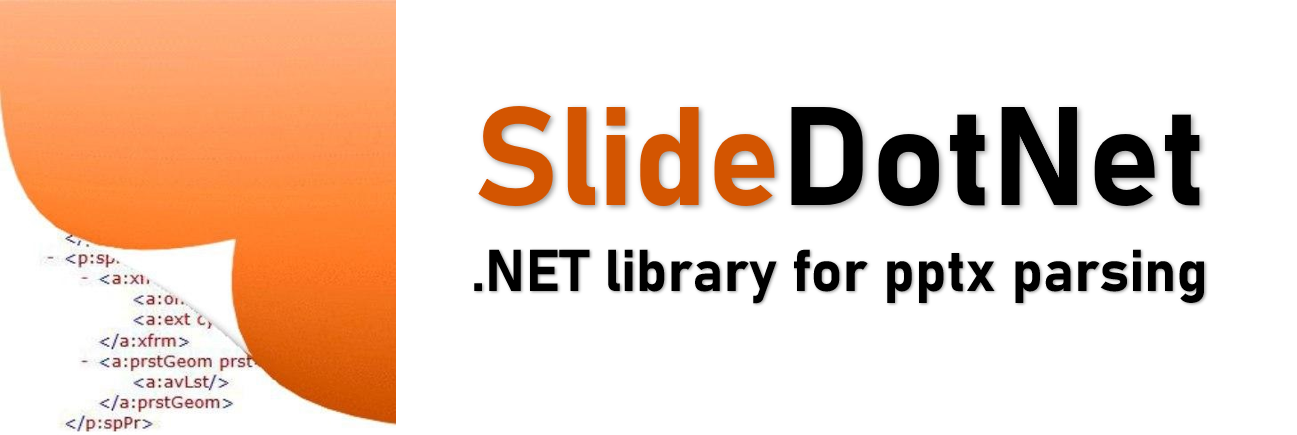
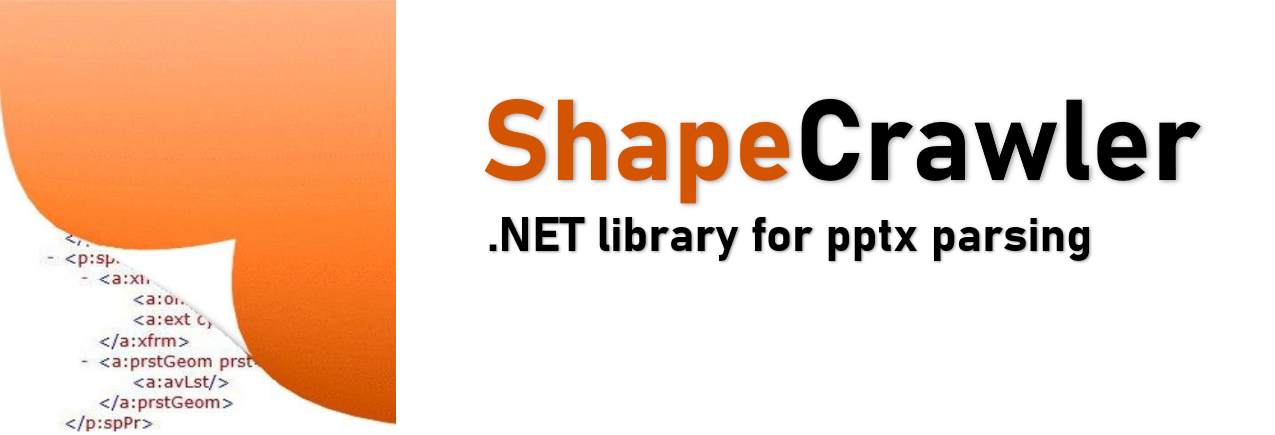
Update README

diff --git a/README.md b/README.md
@@ -1,6 +1,6 @@
 <h3 align="center">
 
-![SlideDotNet](/resources/readme.png)
+![ShapeCrawler](/resources/readme.png)
 
 </h3>
 
@@ -11,41 +11,42 @@
 
 </h3>
 
-SlideDotNet is a fluent wrapper around [Open XML SDK](https://github.com/OfficeDev/Open-XML-SDK) for the processing of PowerPoint files without Microsoft Office installed. It aims to provide an intuitive and user-friendly interface to dealing with the underlying Open XML SDK API.
+ShapeCrawler (formerly SlideDotNet) is a fluent wrapper around [Open XML SDK](https://github.com/OfficeDev/Open-XML-SDK) for the processing of PowerPoint files without Microsoft Office installed. It aims to provide an intuitive and user-friendly interface to dealing with the underlying Open XML SDK API.
 
 ## Getting Started
 You can quickly start work with the library by following steps listed below.
 
-### Prerequisites
-* .NET Core 2.2 or above
-
 ### Installing
-To install SlideDotNet, run the following command in the Package Manager Console:
+To install ShapeCrawler, run the following command in the Package Manager Console:
 ```
-PM> Install-Package SlideDotNet
+PM> Install-Package ShapeCrawler
 ```
 
 ### Usage
 ```C#
-// opens presentation from the file path
-var presentation = new PresentationEx(@"c:\test.pptx");
-
-// gets the slides collection
-var slides = presentation.Slides; 
-
-// gets number of slides
-var numSlides = slides.Count(); 
-
-// gets the shapes collection of the first slide
-var shapes = slides[0].Shapes;
-
-// prints texts of shapes on the Debug console
-foreach (var sp in shapes)
+public static async void Usage()
 {
-    if (sp.HasTextFrame)
+    // #1 Gets number of slides
+    var presentation = new PresentationEx(@"c:\test.pptx");
+    var slides = presentation.Slides;
+    var numSlides = slides.Count();
+    
+    // #2 Gets number of shapes
+    var firstSlide = slides[0];
+    var shapes = firstSlide.Shapes;
+    var numShapes = shapes.Count;
+    
+    // #3 Prints texts of shapes on the Debug console
+    foreach (var sp in shapes)
     {
-        Debug.WriteLine(sp.TextFrame.Text);
+        if (sp.HasTextFrame)
+        {
+            Debug.WriteLine(sp.TextFrame.Text);
+        }
     }
+
+    // #4 Gets slide background content
+    byte[] backgroundBytes = await firstSlide.BackgroundImage.GetImageBytes();
 }
 ```
 
@@ -59,11 +60,8 @@ foreach (var sp in shapes)
     - Bullet.Size
     - Bullet.ColorHex
 
-To find out more, please check out the [CHANGELOG](https://github.com/adamshakhabov/SlideDotNet/blob/master/CHANGELOG.md).
+To find out more, please check out the [CHANGELOG](https://github.com/ShapeCrawler/ShapeCrawler/blob/master/CHANGELOG.md).
 
 ## Contribution
-If you have any problems or questions you can create an issue on this repository or contact me at <a href="mailto:theadamo86@gmail.com">theadamo86@gmail.com</a>.
-If you want to contribute in improving this wrapper, feel free to [create pull requests](https://github.com/adamshakhabov/SlideDotNet/pulls).
-
-## Author
-**Adam Shakhabov** — [adamshakhabov](https://www.linkedin.com/in/adamshakhabov)
+- Feel free to report a bug or suggest a new feature by creating an [issue](https://github.com/ShapeCrawler/ShapeCrawler/issues);
+- Welcome to contribute. We are wating for your [Pull Requests](https://github.com/ShapeCrawler/ShapeCrawler/pulls). 
